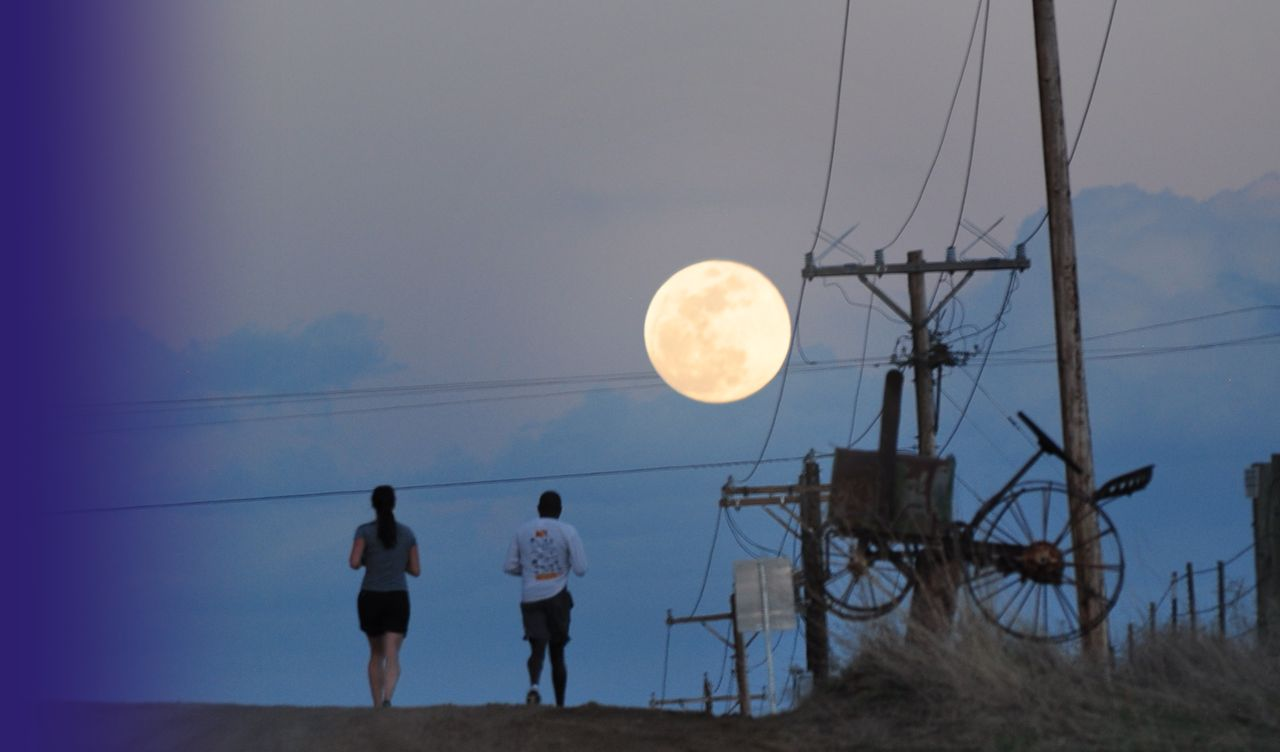
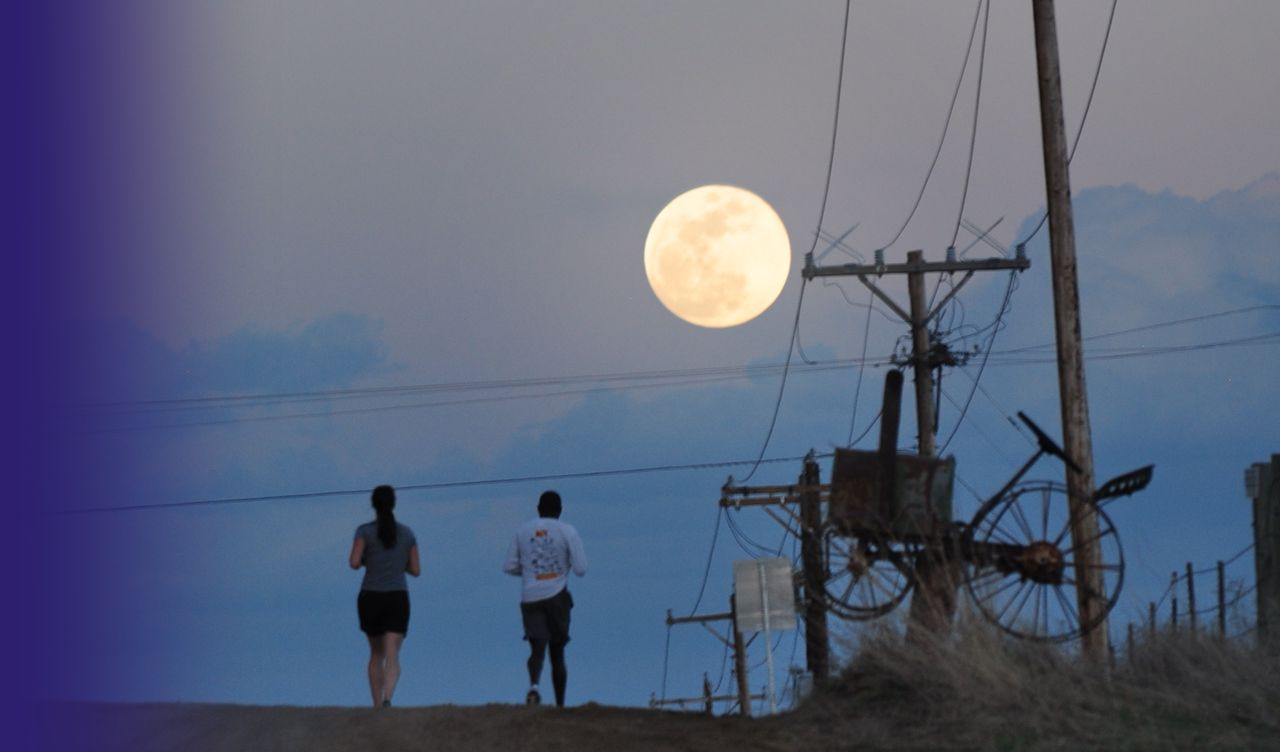
Raise the moon clear of the power lines; Longs Peak for special needs trusts

Changed region(s): [[0.5, 0.2447, 0.625, 0.5505]]

diff --git a/practice/special-needs-trust-attorney-colorado.html b/practice/special-needs-trust-attorney-colorado.html
@@ -149,7 +149,7 @@
     .footer-bar{border-top:1px solid rgba(255,255,255,0.08);padding-top:1.5rem;font-size:0.74rem;color:rgba(255,255,255,0.35);line-height:1.7;}
     @media(max-width:768px){.nav-links{display:none;flex-direction:column;position:fixed;top:150px;left:0;right:0;background:var(--white);padding:1.5rem 2rem 2rem;gap:0.5rem;border-top:1px solid var(--light-gray);box-shadow:0 8px 24px rgba(0,0,0,0.1);}.nav-links.open{display:flex;}.nav-hamburger{display:flex;}.page-hero h1{font-size:1.85rem;}.content-layout{grid-template-columns:1fr;}.footer-inner{grid-template-columns:1fr;}.footer-links{text-align:left;flex-direction:row;flex-wrap:wrap;gap:0.5rem 1.25rem;}}
               /* PHOTO-HERO */
-    .page-hero.photo-hero{position:relative;overflow:hidden;background:#2D1F6E url("/assets/images/practice/hero-winter-cottonwoods.jpg") right center/auto 100% no-repeat;}
+    .page-hero.photo-hero{position:relative;overflow:hidden;background:#2D1F6E url("/assets/images/practice/hero-longs-reflection.jpg") right center/auto 100% no-repeat;}
     .page-hero.photo-hero::before{content:"";position:absolute;inset:0;background:linear-gradient(90deg,#2D1F6E 0%,#2D1F6E 44%,rgba(45,31,110,0.80) 52%,rgba(45,31,110,0.30) 66%,rgba(45,31,110,0.05) 100%);pointer-events:none;}
     .page-hero.photo-hero .container{position:relative;z-index:2;}
     .page-hero.photo-hero .photo-credit{position:absolute;right:14px;bottom:10px;z-index:3;font-family:"Montserrat",sans-serif;font-size:0.62rem;letter-spacing:0.06em;color:rgba(255,255,255,0.62);}
